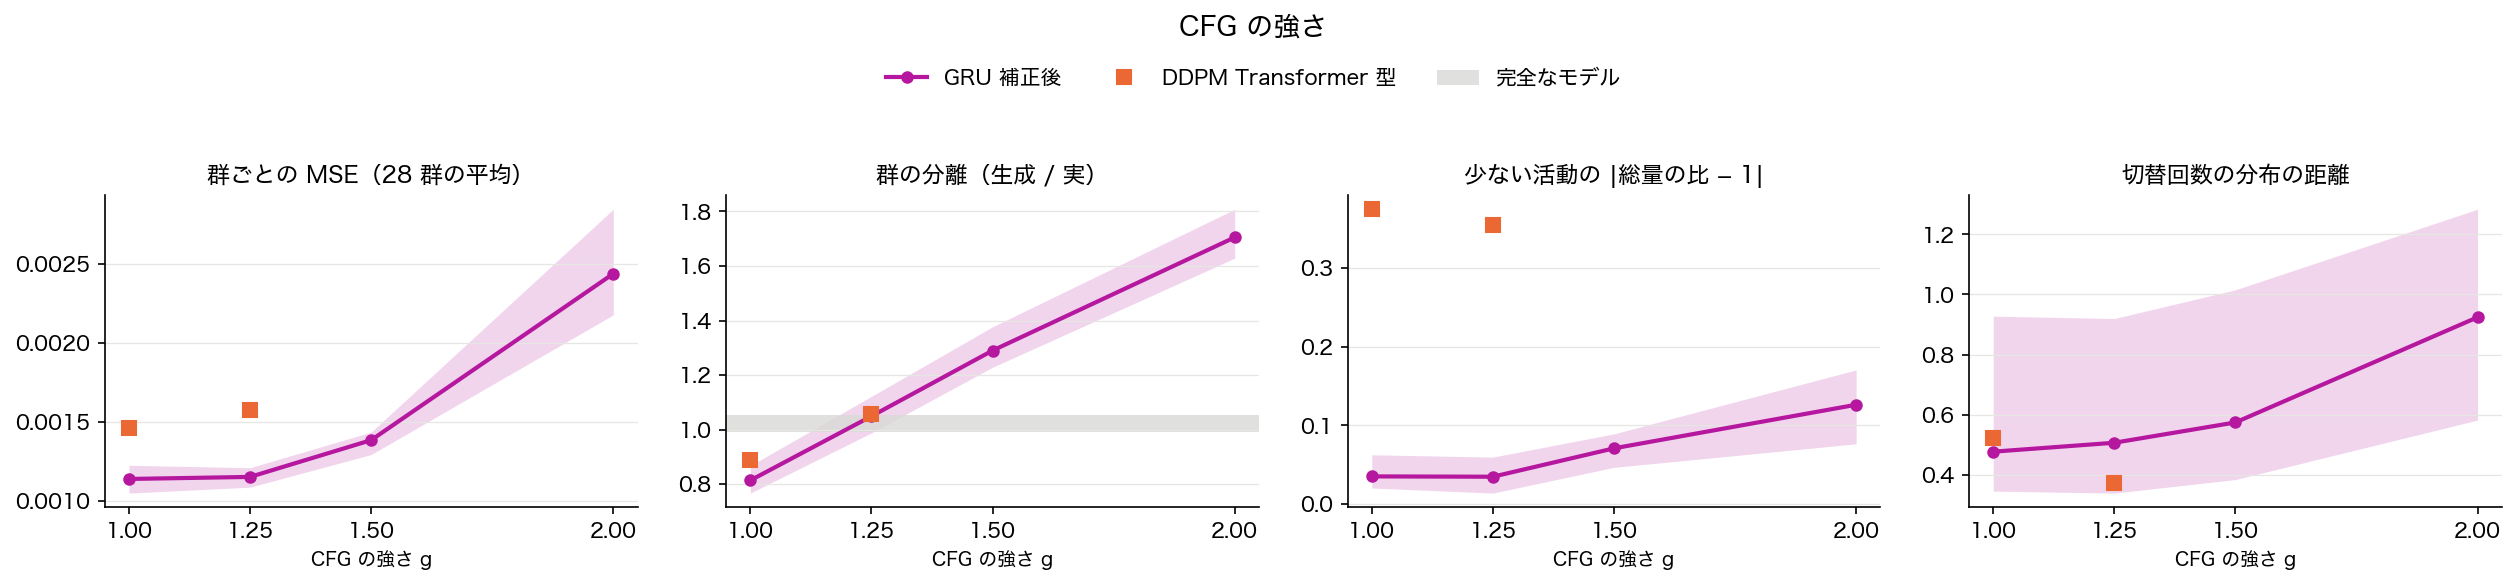
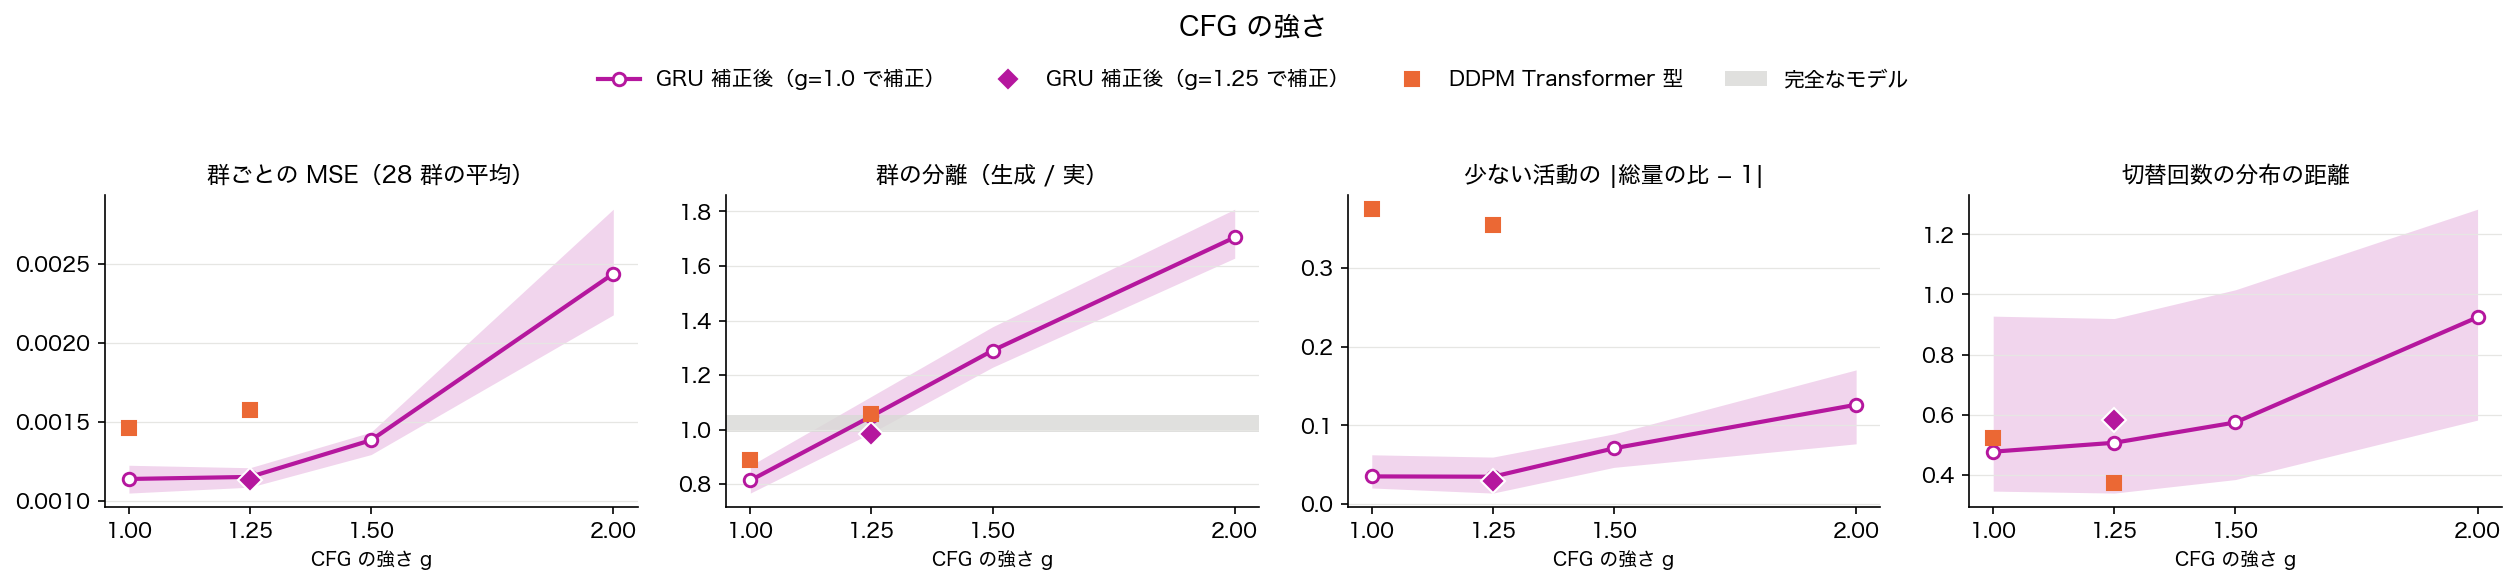
Calibrate the GRU slot bias at CFG 1.25 and compare
--calibrate now takes the guidance used for calibration, and calibrated
checkpoints carry it in their name (_cal for 1.0, _calg1.25 otherwise)
so pools sampled at 1.25 from the 1.0 checkpoint keep their meaning.
The 1.25 arm passes C1 and C2, brings group separation to 0.98 against
a perfect-model 1.02, and still fails C3 only on seed 44's switches.

diff --git a/src/models/GRU_Aggregate/model.py b/src/models/GRU_Aggregate/model.py
@@ -46,7 +46,7 @@ flowchart TD
     GP --> CSV["pool_path(seed, guidance_scale)<br/>sm.write_pool_csv"]
     CK --> TF["teacher_forced_rates<br/>予測確率の加重平均 (12, 96)"]
     CK --> CAL["calibrate_slot_bias（--calibrate）<br/>group_pool → generated_rates → bias_update"]
-    CAL --> CCK["ckpt_path(seed, calibrated=True)<br/>pool_path(seed, calibrated=True)"]
+    CAL --> CCK["ckpt_path(seed, calib_guidance=g)<br/>pool_path(seed, g, calib_guidance=g)"]
 ```
 
 使い方:
@@ -59,8 +59,9 @@ flowchart TD
     # 保存済みの ckpt から CFG の強さを変えたプールだけを作る
     .venv/bin/python src/models/GRU_Aggregate/model.py --seed 42 --pool-only --guidance 1.25
 
-    # 保存済みの ckpt の slot_bias を補正し、_cal の ckpt と生成プールを書く
-    .venv/bin/python src/models/GRU_Aggregate/model.py --seed 42 --calibrate
+    # 保存済みの ckpt の slot_bias を CFG の強さ g で補正し、補正した ckpt と生成プール（同じ g）を書く
+    .venv/bin/python src/models/GRU_Aggregate/model.py --seed 42 --calibrate                   # g = 1.0 → _cal
+    .venv/bin/python src/models/GRU_Aggregate/model.py --seed 42 --calibrate --guidance 1.25   # → _calg1.25
 
     フラグ:
         --seed S       : 学習の乱数の種（既定 42）。分割は変えない。42 以外は保存先に _s{S}
@@ -69,15 +70,17 @@ flowchart TD
         --guidance G   : 生成プールの CFG の強さ（既定 1.0 = CFG なし）。既定以外は保存先に _g{G}
         --no-pool      : 学習後の生成プールを作らない
         --pool-only    : 学習せず、保存済みの ckpt から生成プールだけを作る
-        --calibrate    : 学習せず、保存済みの ckpt の slot_bias を補正して _cal の ckpt と生成プールを書く
+        --calibrate    : 学習せず、保存済みの ckpt の slot_bias を --guidance の g で補正して、補正した ckpt と
+                         生成プール（同じ g）を書く。接尾辞は g = 1.0 なら _cal、それ以外は _calg{G}
         --smoke        : 短時間の動作確認
 
 出力:
     outputs/checkpoints/gru_aggregate{接尾辞}.pt               最良の ckpt（config に学習曲線 history）
     outputs/checkpoints/gru_aggregate{接尾辞}_ep{epoch:04d}.pt 途中の ckpt
     outputs/generated/gru_aggregate_samples{接尾辞}.csv        生成プール（28 群 × 256 本）
-    outputs/checkpoints/gru_aggregate{接尾辞}_cal.pt           slot_bias を補正した ckpt（config に補正の記録）
-    outputs/generated/gru_aggregate_samples{接尾辞}_cal.csv    補正した ckpt の生成プール
+    outputs/checkpoints/gru_aggregate{接尾辞}{補正}.pt              slot_bias を補正した ckpt（config に補正の記録）
+    outputs/generated/gru_aggregate_samples{接尾辞}{補正}{_gG}.csv  補正した ckpt の生成プール
+        {補正} = _cal（g = 1.0 で補正）/ _calg1.25（g = 1.25 で補正）。{_gG} は生成の g（1.0 なら付けない）
 """
 import argparse
 import copy
@@ -165,7 +168,7 @@ CALIB_SEED = 20000                   # 反復 k のプールの種は CALIB_SEED
 #   1 回が長い活動では slot_bias の変化が「始める」と「続ける」の両方に効き、総量が約 2 倍動くため
 CALIB_STEP = 0.5
 CALIB_EPS = 1e-4                     # 行動者率 0 のセルで log を発散させない値
-CALIB_TAG = "_cal"                   # 補正した ckpt・プールの接尾辞
+CALIB_TAG = "_cal"                   # 補正した ckpt・プールの接尾辞（g ≠ 1.0 で補正したものは _calg{G}）
 
 DEVICE = "cuda" if torch.cuda.is_available() else "mps" if torch.mps.is_available() else "cpu"
 
@@ -650,18 +653,21 @@ def bias_update(gen: FloatArr, target: FloatArr, step: float = CALIB_STEP,
 
 
 def calibrate_slot_bias(model: GRUScheduler, target: FloatArr, pi_d: FloatArr,
-                        iters: int = CALIB_ITERS, n_per_group: int = CALIB_POOL_N,
-                        seed: int = CALIB_SEED, verbose: bool = True) -> list[dict[str, Any]]:
+                        guidance_scale: float = GUIDANCE_SCALE, iters: int = CALIB_ITERS,
+                        n_per_group: int = CALIB_POOL_N, seed: int = CALIB_SEED,
+                        verbose: bool = True) -> list[dict[str, Any]]:
     """生成した時刻別行動者率が target に合うよう、slot_bias だけを反復で動かす（model を書き換える）
 
     Note:
-        1. 反復 k では、種 seed + k のプール（g = 1.0）を作り、generated_rates で 1 本にしてから bias_update を足す
+        1. 反復 k では、種 seed + k のプール（CFG の強さ guidance_scale）を作り、generated_rates で 1 本にしてから
+           bias_update を足す。補正した総量が一致するのは、同じ g で生成したときだけ
         2. 最後の補正の後にもう 1 回プールを作って測る（戻り値の最後の要素。slot_bias は変えない）
 
     Args:
         model: 学習済みのモデル
         target: 目標の時刻別行動者率, (NUM_ACT, NUM_SLOTS)。学習分割の sm.population_rates
         pi_d: 生成側の群の重み, (D_GROUPS,)。目標と同じ群構成（split_group_weights(学習分割)）
+        guidance_scale: 補正のプールを作る CFG の強さ g, default=GUIDANCE_SCALE=1.0
         iters: 補正の回数, default=CALIB_ITERS=8
         n_per_group: 1 回のプールの群あたりの本数, default=CALIB_POOL_N=1024
         seed: 1 回目のプールの種, default=CALIB_SEED=20000
@@ -673,7 +679,7 @@ def calibrate_slot_bias(model: GRUScheduler, target: FloatArr, pi_d: FloatArr,
     """
     history: list[dict[str, Any]] = []
     for k in range(iters + 1):
-        gen = generated_rates(group_pool(model, n_per_group, GUIDANCE_SCALE, seed=seed + k), pi_d)
+        gen = generated_rates(group_pool(model, n_per_group, guidance_scale, seed=seed + k), pi_d)
         gap = np.abs(gen - target)
         ratio = gen.mean(axis=1) / target.mean(axis=1)
         history.append({"iter": k, "max_abs_gap": float(gap.max()), "mean_abs_gap": float(gap.mean()),
@@ -688,19 +694,20 @@ def calibrate_slot_bias(model: GRUScheduler, target: FloatArr, pi_d: FloatArr,
     return history
 
 
-def run_calibration(seed: int) -> None:
-    """保存済みの最良の ckpt の slot_bias を補正し、_cal の ckpt と生成プール（g = 1.0）を書く"""
+def run_calibration(seed: int, guidance_scale: float = GUIDANCE_SCALE) -> None:
+    """保存済みの最良の ckpt の slot_bias を CFG の強さ guidance_scale で補正し、補正した ckpt と
+    同じ g の生成プールを書く（保存先は ckpt_path / pool_path の calib_guidance=guidance_scale）"""
     source = ckpt_path(seed)
     model = load_model(source)
     train_part, _ = load_split()
     target = sm.population_rates(train_part.sched, train_part.weight).numpy().astype(np.float64)
-    history = calibrate_slot_bias(model, target, split_group_weights(train_part))
-    out = ckpt_path(seed, calibrated=True)
+    history = calibrate_slot_bias(model, target, split_group_weights(train_part), guidance_scale)
+    out = ckpt_path(seed, calib_guidance=guidance_scale)
     save_ckpt(model, out, seed, extra={"calibrated_from": source.name, "calibration": {
-        "iters": CALIB_ITERS, "pool_n": CALIB_POOL_N, "seed": CALIB_SEED, "step": CALIB_STEP,
-        "eps": CALIB_EPS, "history": history}})
+        "guidance_scale": guidance_scale, "iters": CALIB_ITERS, "pool_n": CALIB_POOL_N, "seed": CALIB_SEED,
+        "step": CALIB_STEP, "eps": CALIB_EPS, "history": history}})
     print(f"saved calibrated model to {out}")
-    write_pool(model, pool_path(seed, GUIDANCE_SCALE, calibrated=True), GUIDANCE_SCALE)
+    write_pool(model, pool_path(seed, guidance_scale, calib_guidance=guidance_scale), guidance_scale)
 
 
 # ============================================================
@@ -711,15 +718,28 @@ def run_suffix(seed: int) -> str:
     return "" if seed == SEED else f"_s{seed}"
 
 
-def ckpt_path(seed: int, calibrated: bool = False) -> Path:
-    """最良の ckpt のパス。calibrated=True なら slot_bias を補正した ckpt（_cal）"""
-    cal = CALIB_TAG if calibrated else ""
+def calib_tag(calib_guidance: float | None) -> str:
+    """補正の接尾辞。None（補正なし）は空、g = 1.0 で補正したものは _cal、それ以外は _calg{G}"""
+    if calib_guidance is None:
+        return ""
+    return CALIB_TAG if calib_guidance == GUIDANCE_SCALE else f"{CALIB_TAG}g{calib_guidance:g}"
+
+
+def ckpt_path(seed: int, calib_guidance: float | None = None) -> Path:
+    """最良の ckpt のパス。calib_guidance を渡すと、その g で slot_bias を補正した ckpt"""
+    cal = calib_tag(calib_guidance)
     return MODEL_SAVE_PATH.with_name(f"{MODEL_SAVE_PATH.stem}{run_suffix(seed)}{cal}{MODEL_SAVE_PATH.suffix}")
 
 
-def pool_path(seed: int, guidance_scale: float = GUIDANCE_SCALE, calibrated: bool = False) -> Path:
-    """生成プールの CSV のパス。補正した ckpt なら _cal、CFG の強さが既定以外なら _g{G} を付ける"""
-    cal = CALIB_TAG if calibrated else ""
+def pool_path(seed: int, guidance_scale: float = GUIDANCE_SCALE, calib_guidance: float | None = None) -> Path:
+    """生成プールの CSV のパス
+
+    Args:
+        seed: 学習の種
+        guidance_scale: 生成の CFG の強さ。既定以外なら _g{G} を付ける
+        calib_guidance: 補正した ckpt のプールなら、補正に使った g（calib_tag の接尾辞を付ける）
+    """
+    cal = calib_tag(calib_guidance)
     tag = "" if guidance_scale == GUIDANCE_SCALE else f"_g{guidance_scale:g}"
     return GEN_SAVE_PATH.with_name(f"{GEN_SAVE_PATH.stem}{run_suffix(seed)}{cal}{tag}{GEN_SAVE_PATH.suffix}")
 
@@ -760,11 +780,14 @@ def main() -> None:
     args = ap.parse_args()
     if args.no_pool and args.pool_only:
         ap.error("--no-pool と --pool-only は併用できない")
-    if args.calibrate and (args.pool_only or args.no_pool or args.guidance != GUIDANCE_SCALE):
-        ap.error("--calibrate は --pool-only / --no-pool / --guidance と併用できない（補正は g = 1.0 で行う）")
+    if args.calibrate and (args.pool_only or args.no_pool):
+        ap.error("--calibrate は --pool-only / --no-pool と併用できない")
 
     ckpt = ckpt_path(args.seed)
     pool = pool_path(args.seed, args.guidance)
+    if args.calibrate:                        # 補正は読み込む ckpt と書く ckpt・プールが別
+        pool = pool_path(args.seed, args.guidance, calib_guidance=args.guidance)
+        print(f"[config] calibrated ckpt={ckpt_path(args.seed, calib_guidance=args.guidance).name}")
     print(f"[config] seed={args.seed} epochs={args.epochs} save_every={args.save_every} "
           f"guidance={args.guidance:g}")
     print(f"[config] ckpt={ckpt.name}  pool={pool.name}")
@@ -772,7 +795,7 @@ def main() -> None:
         smoke()
         return
     if args.calibrate:
-        run_calibration(args.seed)
+        run_calibration(args.seed, args.guidance)
         return
     if args.pool_only:
         model = load_model(ckpt)

diff --git a/src/models/GRU_Aggregate/test_model.py b/src/models/GRU_Aggregate/test_model.py
@@ -218,8 +218,11 @@ def test_save_load() -> None:
     assert gm.count_params(gm.GRUScheduler()) == 1_829_064
     assert gm.ckpt_path(42).name == "gru_aggregate.pt" and gm.ckpt_path(43).name == "gru_aggregate_s43.pt"
     assert gm.pool_path(42, 1.25).name == "gru_aggregate_samples_g1.25.csv"
-    assert gm.ckpt_path(43, calibrated=True).name == "gru_aggregate_s43_cal.pt"
-    assert gm.pool_path(42, calibrated=True).name == "gru_aggregate_samples_cal.csv"
+    assert gm.ckpt_path(43, calib_guidance=1.0).name == "gru_aggregate_s43_cal.pt"
+    assert gm.pool_path(42, calib_guidance=1.0).name == "gru_aggregate_samples_cal.csv"
+    assert gm.ckpt_path(43, calib_guidance=1.25).name == "gru_aggregate_s43_calg1.25.pt"
+    assert gm.pool_path(42, 1.25, calib_guidance=1.25).name == "gru_aggregate_samples_calg1.25_g1.25.csv"
+    assert gm.pool_path(42, 1.25, calib_guidance=1.0).name == "gru_aggregate_samples_cal_g1.25.csv"
     print("  g. 保存と読み込み・パラメータ数・保存先: OK")
 
 
@@ -245,7 +248,7 @@ def test_calibration() -> None:
 
     m = _model()
     before = {k: v.clone() for k, v in m.state_dict().items()}
-    hist = gm.calibrate_slot_bias(m, manual, pi, iters=2, n_per_group=2, seed=0, verbose=False)
+    hist = gm.calibrate_slot_bias(m, manual, pi, 1.25, iters=2, n_per_group=2, seed=0, verbose=False)
     after = m.state_dict()
     changed = {k for k in before if not torch.equal(before[k], after[k])}
     assert changed == {"slot_bias"}, f"slot_bias 以外が変わった: {changed}"

diff --git a/src/models/GRU_Aggregate/plot_schedules.py b/src/models/GRU_Aggregate/plot_schedules.py
@@ -3,7 +3,7 @@ plot_schedules.py
 =================
 生成した活動スケジュールを個票レベルで描く（1 人 1 行、横軸 04:00 → 翌 04:00、色 = 活動）。
 
-ATUS 実データ・GRU 補正後（gru_cal）・DDPM Transformer 型を横に 3 列並べる。
+ATUS 実データ・GRU 補正後（gru_calg125: g = 1.25 で補正・生成）・DDPM Transformer 型を横に 3 列並べる。
 
     stage1_gru_schedules.png         米国加重の母集団から N_POPULATION 人ずつ
     stage1_gru_schedules_groups.png  EXAMPLE_GROUPS の群ごとに N_GROUP 人ずつ
@@ -67,8 +67,8 @@ cur: Any = cmp.cur
 sm: Any = cmp.sm
 
 # 並べるもの: (arm, CFG の強さ g, 種)。"atus" は ATUS 実データ
-SOURCES: tuple[tuple[str, float, int], ...] = (("atus", 0.0, 0), ("gru_cal", 1.0, 42), ("ddpm_tf96", 1.25, 42))
-SOURCE_TITLES: dict[str, str] = {"atus": "ATUS 実データ", "gru_cal": "GRU 補正後（g=1.0、種 42）",
+SOURCES: tuple[tuple[str, float, int], ...] = (("atus", 0.0, 0), ("gru_calg125", 1.25, 42), ("ddpm_tf96", 1.25, 42))
+SOURCE_TITLES: dict[str, str] = {"atus": "ATUS 実データ", "gru_calg125": "GRU 補正後（g=1.25、種 42）",
                                  "ddpm_tf96": "DDPM Transformer 型（g=1.25、種 42）"}
 N_POPULATION = 100
 N_GROUP = 30

diff --git a/src/models/GRU_Aggregate/docs/Stage1_gru_results.md b/src/models/GRU_Aggregate/docs/Stage1_gru_results.md
@@ -4,6 +4,7 @@
 
 ## 1. 結論
 
+- **追記（§8、2026-09-28）: g = 1.25 で補正して g = 1.25 で生成した `gru_calg125` も、C1・C2 に合格（5/5・5/5）、C3 は種 44 の switch_emd だけ超過（1.035、基準 0.852）。** 群の分離は 0.98 で完全なモデル（1.02）に近づいた（g = 1.0 の補正では 0.81）。
 - **追記（§6）: 学習後に `slot_bias` を補正した `gru_cal` は C1・C2 に合格（5/5・5/5）、C3 は不合格**。
   - **判断（2026-09-27、ユーザー）：C3 の超過は許容する。`gru_cal` を Stage 1 の採用の候補とする**（§6.5）。
   - C3 で落ちたのは種 44 の switch_emd だけ（0.928、基準 0.852）。種 44 は補正の前から睡眠・食事・家事を細切れに作っており、補正で移動のエピソードが実データ並みに増えた分、1 日の切替が 13.48 回（実 12.64）になった。
@@ -55,7 +56,7 @@
 
 ![少ない活動の総量](../figures/stage1_gru_totals.png)
 
-- 図には §6 の `gru_cal`（赤紫）も並べてある。
+- 図には §6 の `gru_cal`（赤紫の白抜き、g = 1.0 で補正）と §8 の `gru_calg125`（赤紫の塗りつぶし、g = 1.25 で補正）も並べてある。
 
 | 活動 | GRU（種 42〜46） | 種平均 | 種間 sd | DDPM Transformer 型 種平均 | 種間 sd | 床 |
 |---|---|---|---|---|---|---|
@@ -119,7 +120,7 @@
 
 ![12 活動の時刻別行動者率](../figures/stage1_gru_curves.png)
 
-- 線は種平均、帯は種の最小〜最大。§6 の `gru_cal`（赤紫）も並べてある。
+- 線は種平均、帯は種の最小〜最大。赤紫は §8 の `gru_calg125`（g = 1.25 で補正・生成）。
 
 | 活動 | GRU ‖実 − 生成‖² | DDPM Transformer 型 |
 |---|---|---|
@@ -271,9 +272,9 @@
 ![群ごとの活動スケジュールの個票](../figures/stage1_gru_schedules_groups.png)
 
 - 1 人 1 行、横軸は 04:00 → 翌 04:00。行は「睡眠・身の回り」以外の活動を最初に始めた時刻が早い順。
-- 1 枚目は米国加重の母集団から 100 人、2 枚目は 4 群から 30 人ずつ。GRU は `gru_cal` の種 42（g = 1.0）、DDPM は Transformer 型の種 42（g = 1.25）。
+- 1 枚目は米国加重の母集団から 100 人、2 枚目は 4 群から 30 人ずつ。GRU は §8 の `gru_calg125` の種 42（g = 1.25）、DDPM は Transformer 型の種 42（g = 1.25）。
 - 描画は [plot_schedules.py](../plot_schedules.py)。
-- 群ごとの図では、GRU は群の特徴が実データより弱く見える（男 35-44 有業で朝から夕方まで続けて働く人が少ない、女 15-24 無業で学業の人が少ない）。7.3 の群の分離と同じ向き。
+- `gru_cal`（g = 1.0）で描いたときは、GRU は群の特徴が実データより弱く見えた（男 35-44 有業で朝から夕方まで続けて働く人が少ない、女 15-24 無業で学業の人が少ない）。7.3 の群の分離（0.81）と同じ向き。g = 1.25 の `gru_calg125` では女 15-24 無業の学業が実データ並みに戻った。
 
 ### 7.2 群ごとの MSE
 
@@ -301,14 +302,61 @@
 - 補正（§6）は g = 1.0 で行った。g = 1.25 でも総量のずれは同じ（0.035）だった。
 - 計画書 §3.3 で g = 1.0 を既定にしたのは、DDPM の診断で CFG が少ない活動の総量をずらしたため。GRU では g = 1.25 でも総量はずれなかった。
 
-## 8. 再現
+## 8. 追記: g = 1.25 での補正（計画書 §9.5）
+
+§7.3 を受けて、補正のプールも評価のプールも g = 1.25 で作った arm を `gru_calg125` と呼ぶ（補正の設定は §6 と同じ。保存先は `_calg1.25`）。
+
+- **補正の収束：** 最後の補正の後、補正のプールでの総量の比は 12 活動・5 本とも 0.96〜1.06。
+
+### 8.1 判定
+
+| # | `gru_cal`（g = 1.0 で補正・生成） | `gru_calg125`（g = 1.25 で補正・生成） |
+|---|---|---|
+| C1 | 5/5 で合格 | **5/5 で合格** |
+| C2 | 5/5 で合格 | **5/5 で合格** |
+| C3 | switch_emd（種 44、0.928）で不合格 | switch_emd（種 44、1.035）で不合格 |
+
+事前の予測（計画書 §9.5）との照合:
+
+| 予測 | 結果 |
+|---|---|
+| C1・C2 は満たす | 当たった |
+| 群の分離は 1.0〜1.1 に入る | わずかに外れた（0.98、種 0.94〜1.04）。完全なモデルの範囲（0.99〜1.06）の下端のすぐ下 |
+| C3 は switch_emd で落ちる | 当たった（種 44） |
+
+### 8.2 主な数値
+
+| | `gru_cal` | `gru_calg125` | DDPM Transformer 型 |
+|---|---|---|---|
+| 少ない活動の総量の比の種間 sd（5 活動） | 0.018〜0.057 | 0.008〜0.097 | 0.061〜0.831 |
+| 少ない活動の \|総量の比 − 1\|（平均） | 0.035 | 0.030 | 0.355 |
+| 群の分離（生成 / 実。完全なモデル 1.02） | 0.81 | **0.98** | 1.06 |
+| 群ごとの MSE / 床（中央値の種平均） | 0.99 | 0.98 | 1.43 |
+| 群ごとの MSE vs ATUS 実 | 1.14e-3 | 1.13e-3 | 1.58e-3 |
+| switch_emd 平均 / 最大 | 0.48 / 0.93 | 0.58 / **1.04** | 0.37 / 0.50 |
+| 1 日の切替回数（実 12.64） | 12.80〜13.48 | 12.87〜13.60 | 12.16〜13.07 |
+| wrap_closure の差 最大（基準 0.0256） | 0.0248 | 0.0241 | 0.0237 |
+| ‖実 − 生成‖² の 12 活動の和 | 0.0148 | 0.0143 | 0.2784 |
+| `rate_mse`（群ごと vs 日本の教師 A*） | 3.31e-3 | 3.26e-3 | 3.54e-3 |
+
+- ボランティアの総量の種間 sd は 0.097 で `gru_cal`（0.034）より大きいが、床（±0.30）の内。
+- switch_emd は種 44 以外の 4 本が 0.44〜0.50。5 本の平均 0.584 は時刻符号なし DDPM の平均 0.614 より小さい。
+- g = 1.0 で補正した ckpt を g = 1.25 で生成したとき（§7.3）の群の分離は 1.05 で、g = 1.25 で補正するとわずかに下がった（全群で共通の `slot_bias` を動かすため）。
+- 暗記は 0 本。
+
+### 8.3 判断待ち
+
+- `gru_calg125` を Stage 1 の採用の候補にするか。C3 の超過は §6.5 と同じく種 44 の 1 本だけだが、switch_emd は 0.928 → 1.035 に増えた。
+
+## 9. 再現
 
 ```bash
 # 学習と生成プール（種 42〜46）、g = 1.25 の比較プール（種 42）
 .venv/bin/python src/models/GRU_Aggregate/model.py --seed 42
 .venv/bin/python src/models/GRU_Aggregate/model.py --seed 42 --pool-only --guidance 1.25
-# slot_bias の補正（_cal の ckpt とプール）
+# slot_bias の補正（g = 1.0 → _cal、g = 1.25 → _calg1.25）
 .venv/bin/python src/models/GRU_Aggregate/model.py --seed 42 --calibrate
+.venv/bin/python src/models/GRU_Aggregate/model.py --seed 42 --calibrate --guidance 1.25
 # 評価（表は data/processed/aggregates/stage1_gru_*.csv、図は src/models/GRU_Aggregate/figures/）
 .venv/bin/python src/eval/diagnostics/stage1_gru_compare.py --part all
 # 個票の図

diff --git a/src/models/GRU_Aggregate/docs/plan.md b/src/models/GRU_Aggregate/docs/plan.md
@@ -257,3 +257,21 @@ flowchart TD
 
 - `gru_cal` は C1・C2 に合格（5/5・5/5）、C3 は種 44 の switch_emd だけ超過（0.928、基準 0.852）。詳細は [Stage1_gru_results.md](Stage1_gru_results.md) §6。
 - **ユーザーの判断：C3 の超過は許容する。`gru_cal` を Stage 1 の採用の候補とする。**
+
+### 9.5 CFG の強さ g = 1.25 での補正（2026-09-27、ユーザー指示）
+
+- **理由：** [Stage1_gru_results.md](Stage1_gru_results.md) §7.3 で、g = 1.0 では群の分離が 0.81 と縮んでいた（完全なモデル 1.02）。g = 1.25 では 1.05 に届き、群ごとの MSE と少ない活動の総量は変わらなかった。
+- **やること：** §9.1 と同じ設定（幅 0.5・8 回・1 回のプール 28 群 × 1,024 本・種 20000〜）で、補正のプールだけ g = 1.25 で作る。評価のプールも g = 1.25（28 群 × 256 本、種 12345）。
+- **保存先：** `gru_aggregate{接尾辞}_calg1.25.pt` と `gru_aggregate_samples{接尾辞}_calg1.25_g1.25.csv`。g = 1.0 で補正した `_cal` は残す。
+- **arm の名前：** `gru_calg125`。判定 C1〜C3 は §4.3 と同じ基準・同じ比較相手でかける。
+
+**事前の予測（結果の前に書く）:**
+
+- C1・C2 は満たす（補正の仕組みは g = 1.0 と同じ）。
+- 群の分離は 1.0〜1.1 に入る。
+- C3 は switch_emd で落ちる見込み（g = 1.0 で補正した ckpt を g = 1.25 で生成したとき、種の最大が 0.92 だった。種 44 の細切れは補正では直らない）。
+
+### 9.6 g = 1.25 での補正の結果（2026-09-28）
+
+- `gru_calg125` は C1・C2 に合格（5/5・5/5）、C3 は種 44 の switch_emd だけ超過（1.035、基準 0.852）。群の分離は 0.98。詳細は [Stage1_gru_results.md](Stage1_gru_results.md) §8。
+- 採用の候補にするか（C3 の超過を許容するか）はユーザーの判断待ち。
